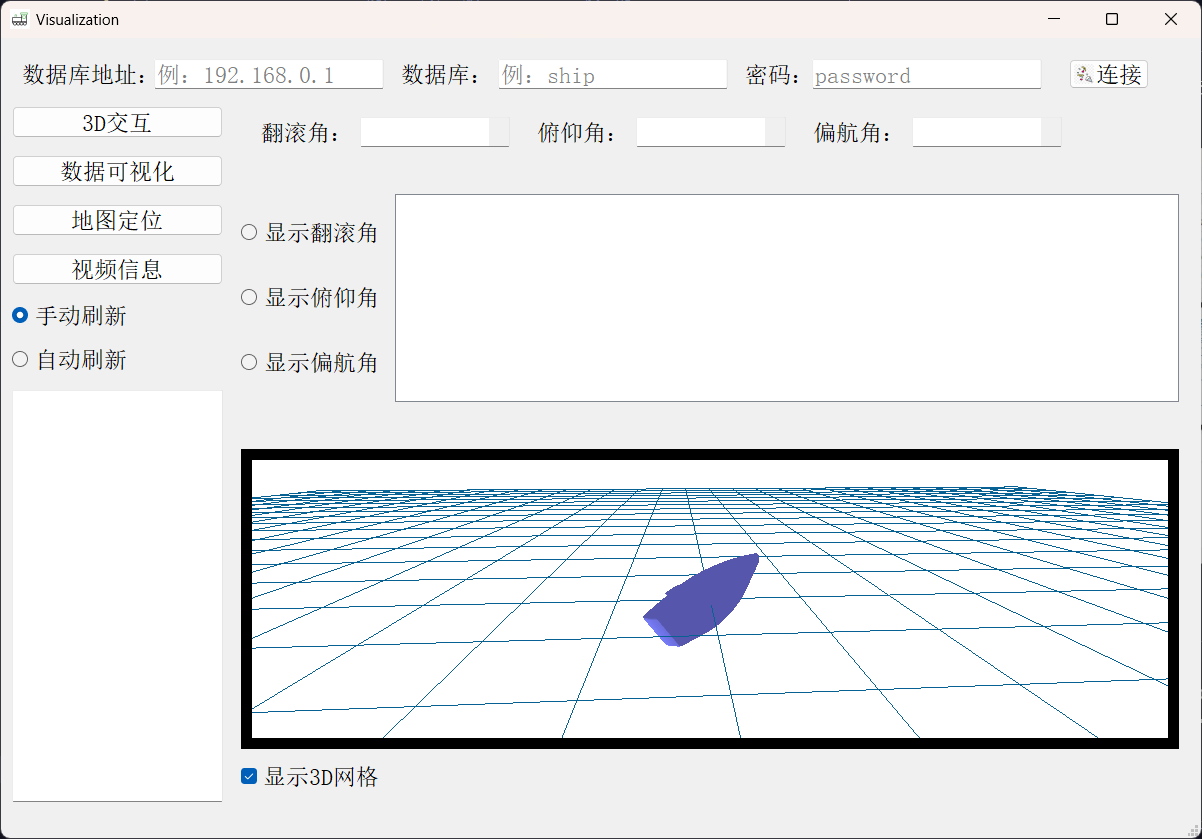
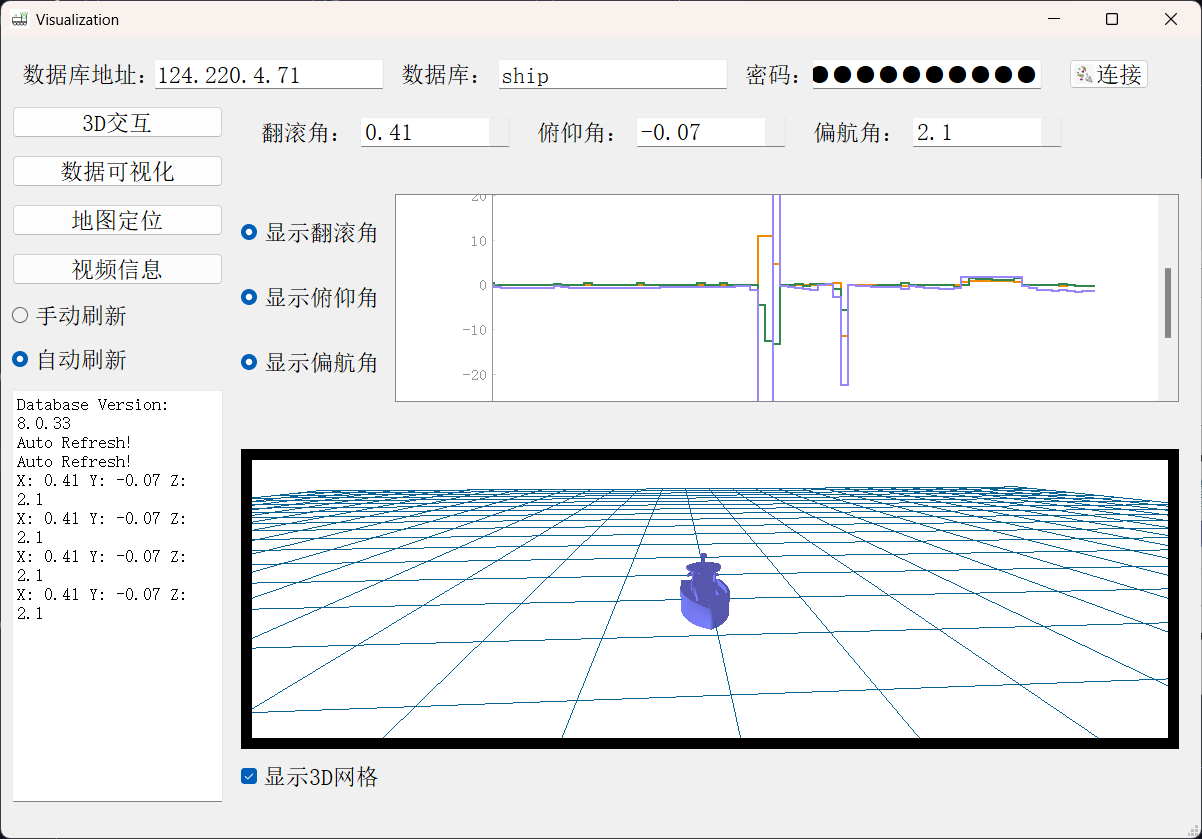
更改readme图像

diff --git a/Ui_management.py b/Ui_management.py
@@ -722,7 +722,7 @@ class Ui_MainWindow(object):
         MainWindow.setStatusBar(self.statusbar)
 
         self.retranslateUi(MainWindow)
-        self.stackedWidget.setCurrentIndex(2)
+        self.stackedWidget.setCurrentIndex(0)
         QtCore.QMetaObject.connectSlotsByName(MainWindow)
         MainWindow.setTabOrder(self.lineEdit, self.lineEdit_2)
         MainWindow.setTabOrder(self.lineEdit_2, self.lineEdit_3)
